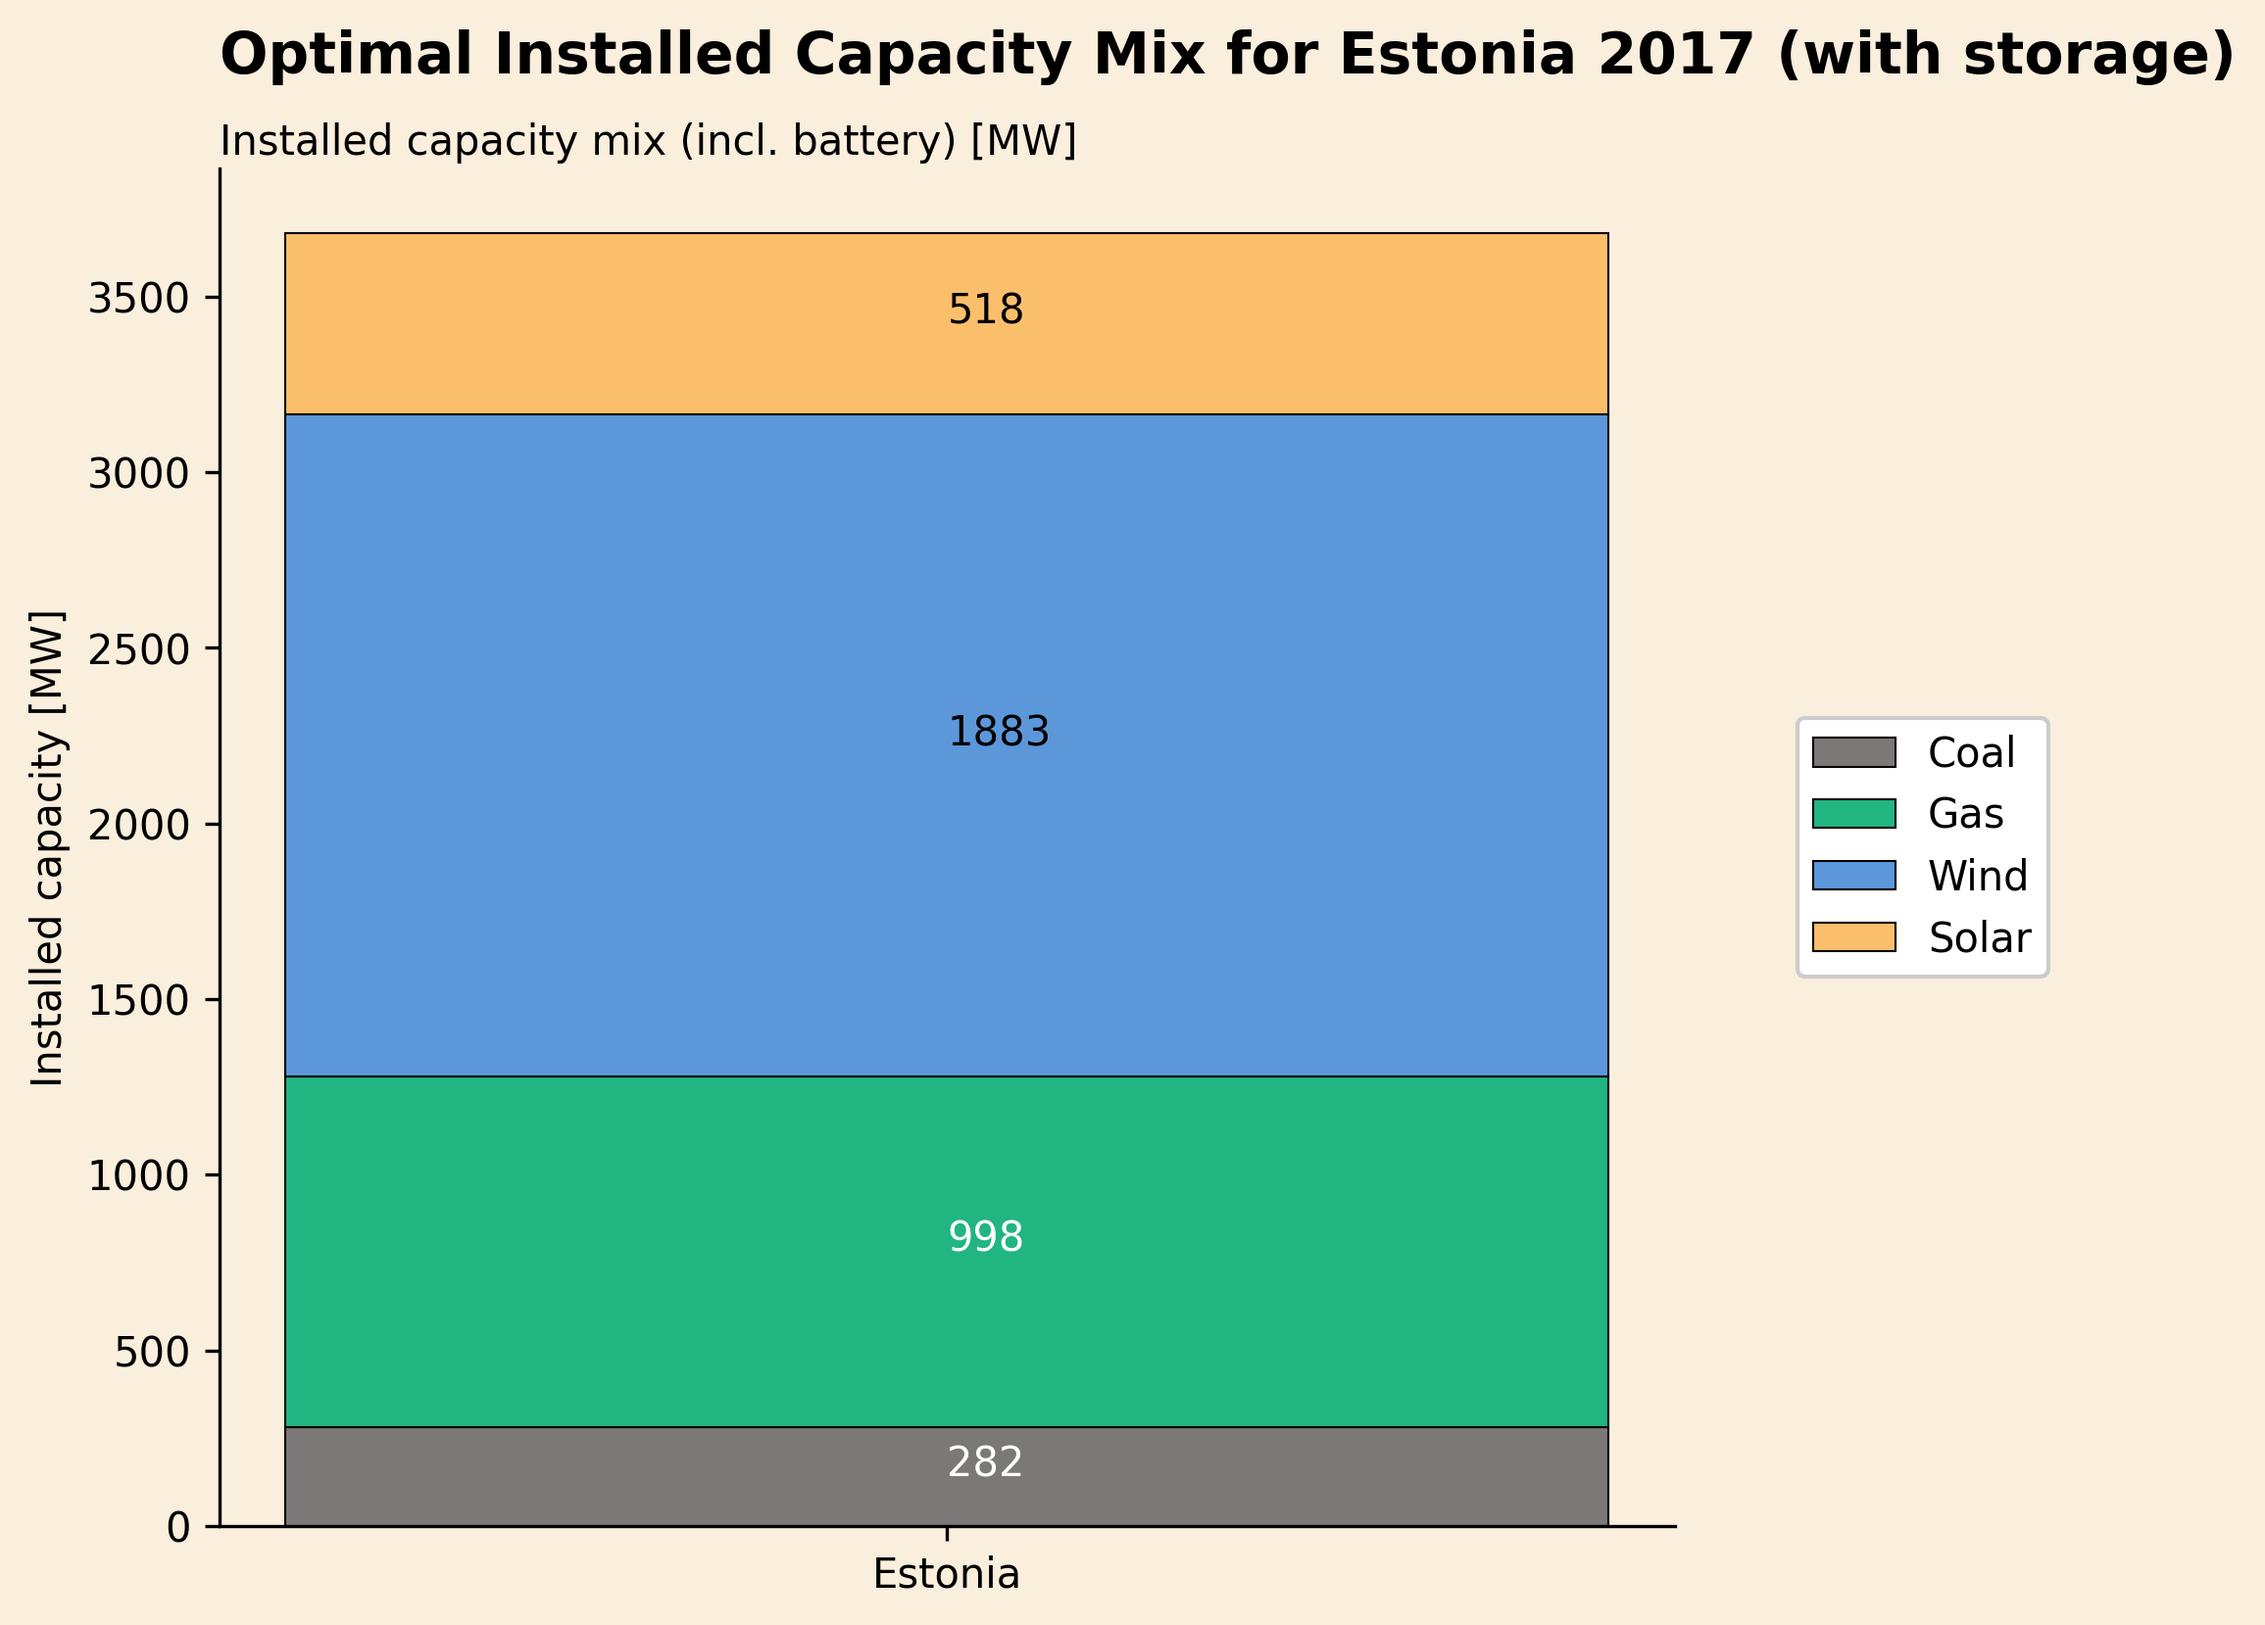
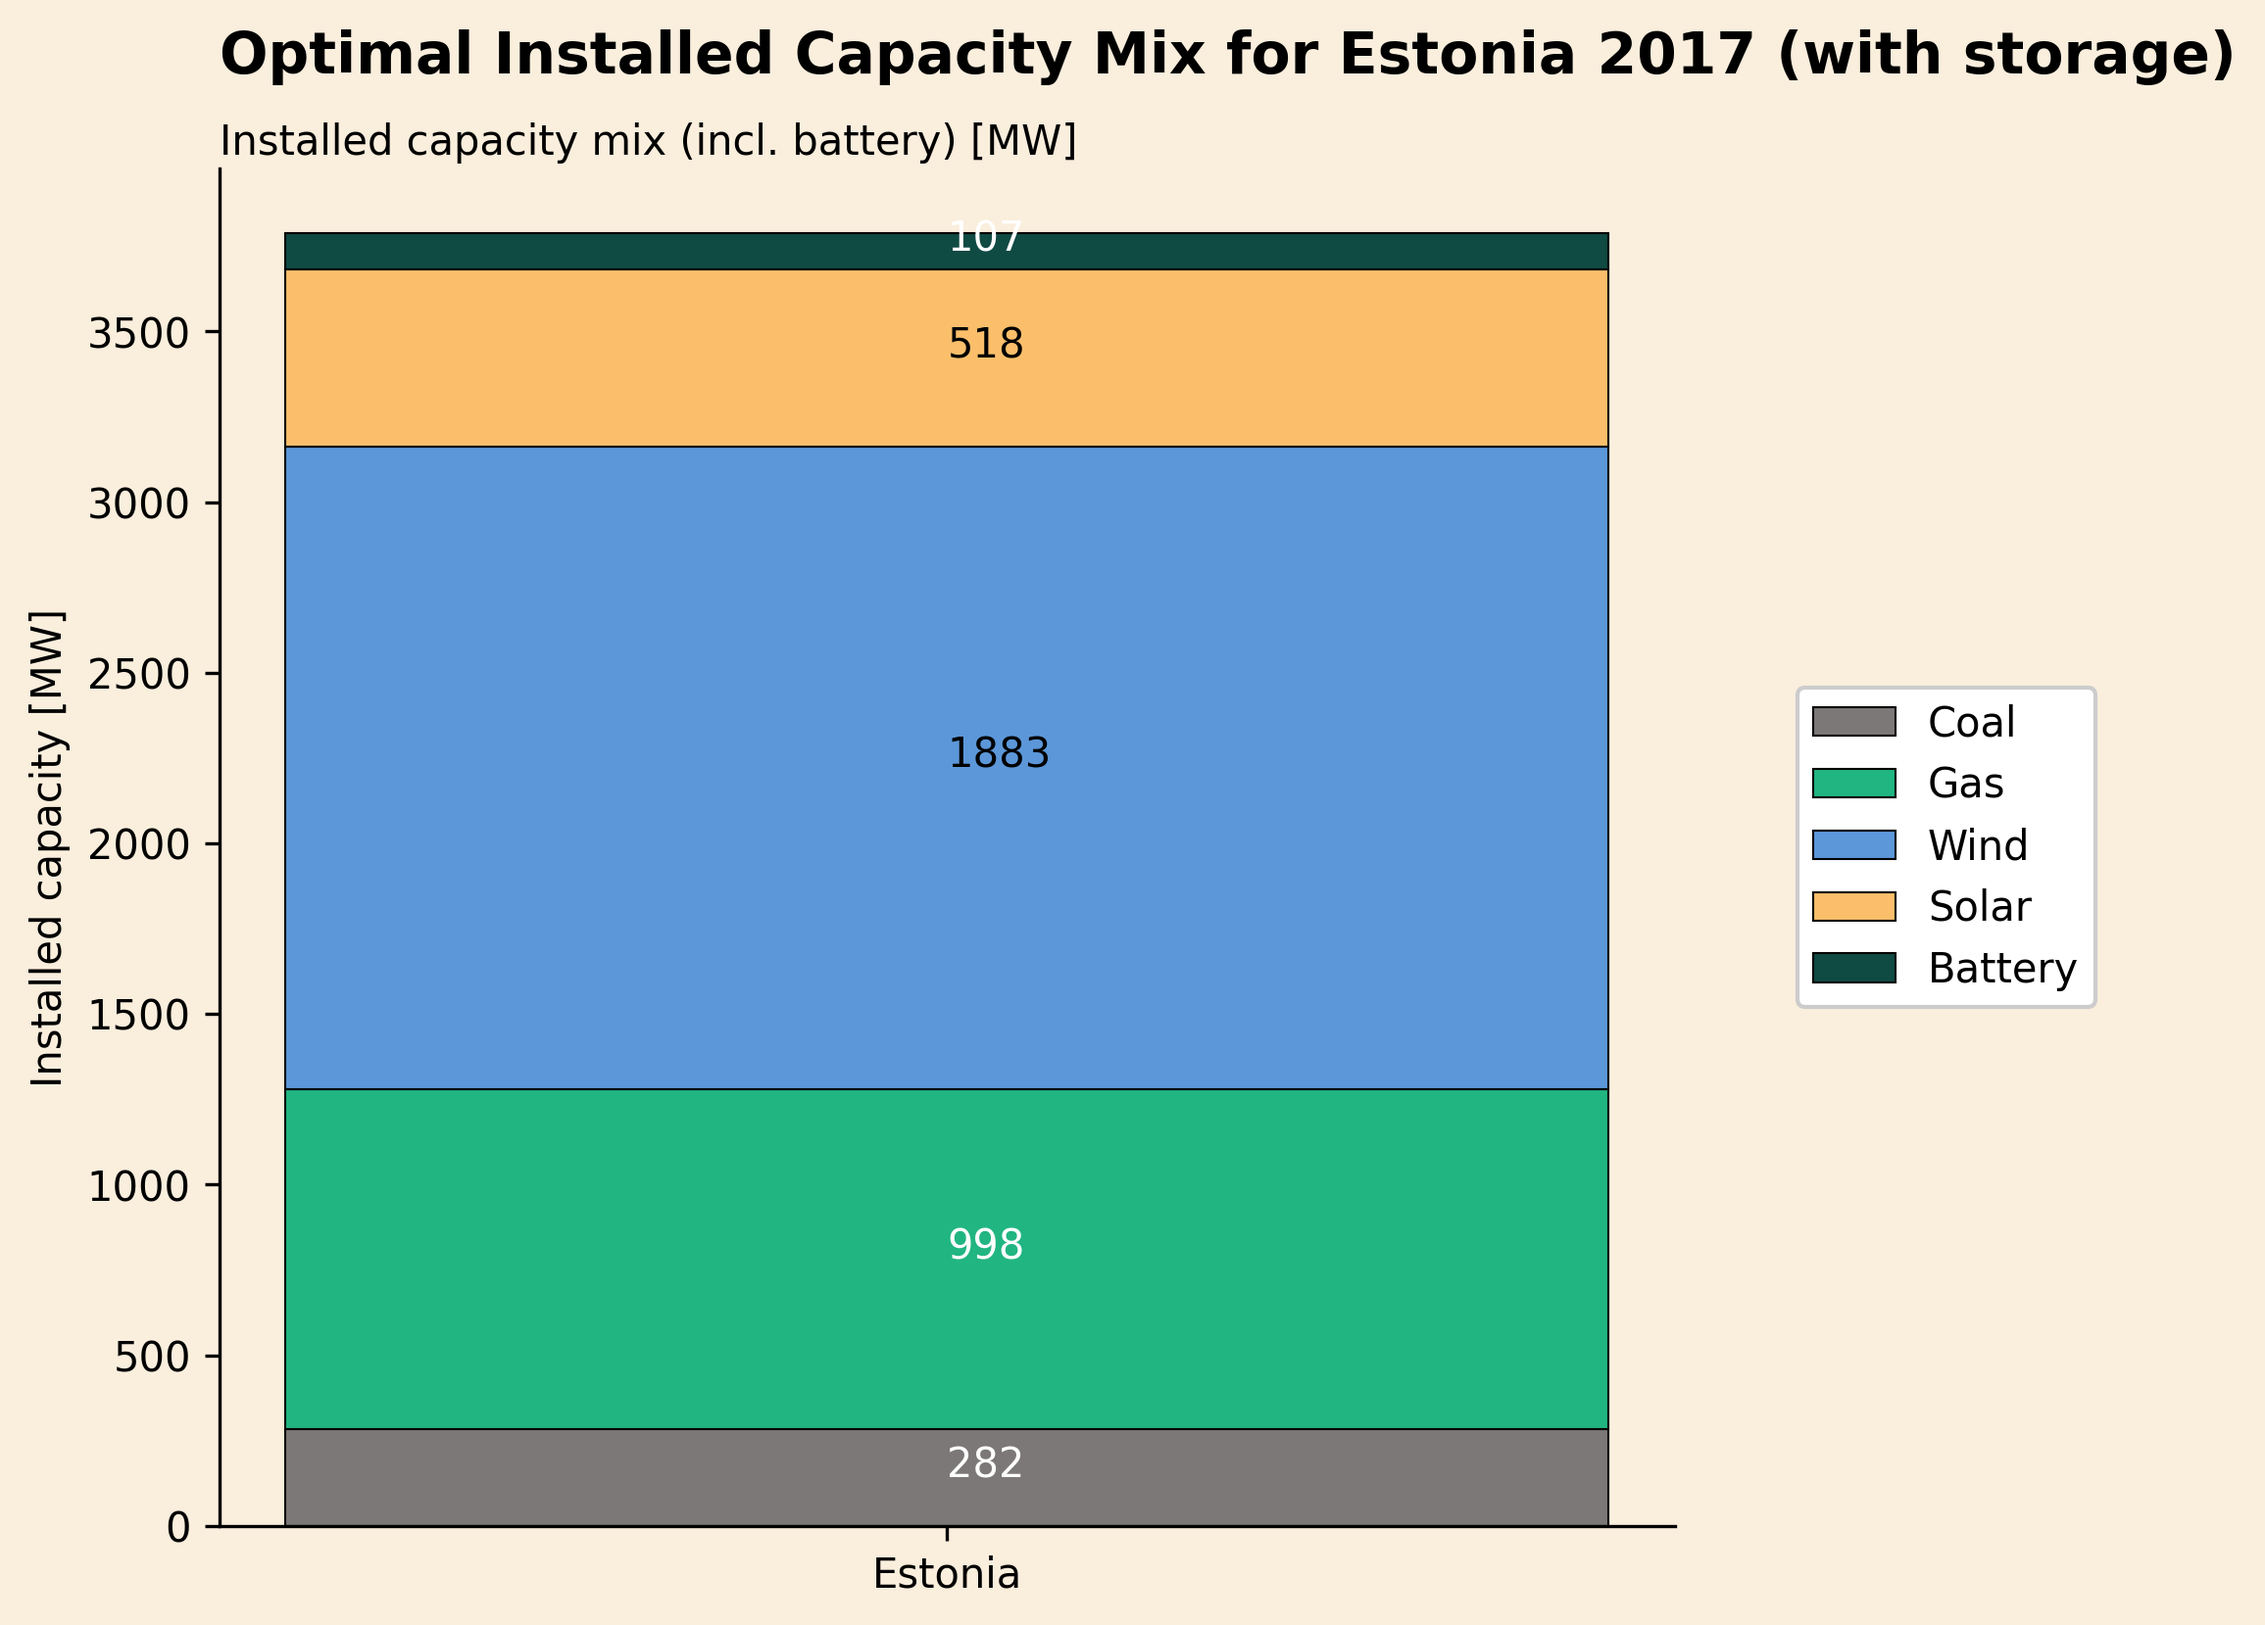
small stuff

diff --git a/network.py b/network.py
@@ -395,19 +395,7 @@ class Network():
 
         # Cost assumptions (order-of-magnitude placeholders, EUR/MW-year).
         # --- Hydrogen system CAPEX assumptions (2017-based, EU-consistent) ---
-
-        # Sources:
-        # IEA (2019) - The Future of Hydrogen:
-        # https://www.iea.org/reports/the-future-of-hydrogen
-        #
-        # World Bank (2020) - Green Hydrogen:
-        # https://documents.worldbank.org/en/publication/documents-reports/documentdetail/green-hydrogen-in-developing-countries
-        #
-        # Joule (2019) - Hydrogen storage cost assumption (~1000 USD/kg H2):
-        # https://www.sciencedirect.com/science/article/pii/S2542435119303228
-        #
-        # IRENA (2020) - Green Hydrogen:
-        # https://www.irena.org/publications/2020/Sep/Green-hydrogen
+        
 
         capital_cost_electrolyzer = annuity(20, 0.07) * 600_000 * (1 + 0.033)   # €/MW-year
 

diff --git a/plotter.py b/plotter.py
@@ -867,6 +867,10 @@ def plot_capacity_mix(capacities, title, show=False, save=True):
         ("Solar Generator Estonia", "Solar", colors[12]),
     ]
 
+    # Include battery capacity in the Estonia mix if present in the capacities index
+    if any("Battery Storage" in idx for idx in capacities.index):
+        components.append(("Battery Storage Estonia", "Battery", colors[9]))
+
     values = [capacities.loc[col] if col in capacities.index else 0.0 for col, _, _ in components]
     labels = [label for _, label, _ in components]
     stack_colors = [color for _, _, color in components]

diff --git a/main.py b/main.py
@@ -5,9 +5,9 @@ from network import Network
 from helper import *
 
 ### SECTION CONTROLS ###
-RUN_A_C = False # with and without storage single node 
-RUN_D = True # + transmission 
-RUN_E = True # imbalances
+RUN_A_C = True # with and without storage single node 
+RUN_D = False # + transmission 
+RUN_E = False # imbalances
 RUN_F = False # CO2 limit analysis
 RUN_G = False # H2 network
 RUN_H = False # CO2 constraint
